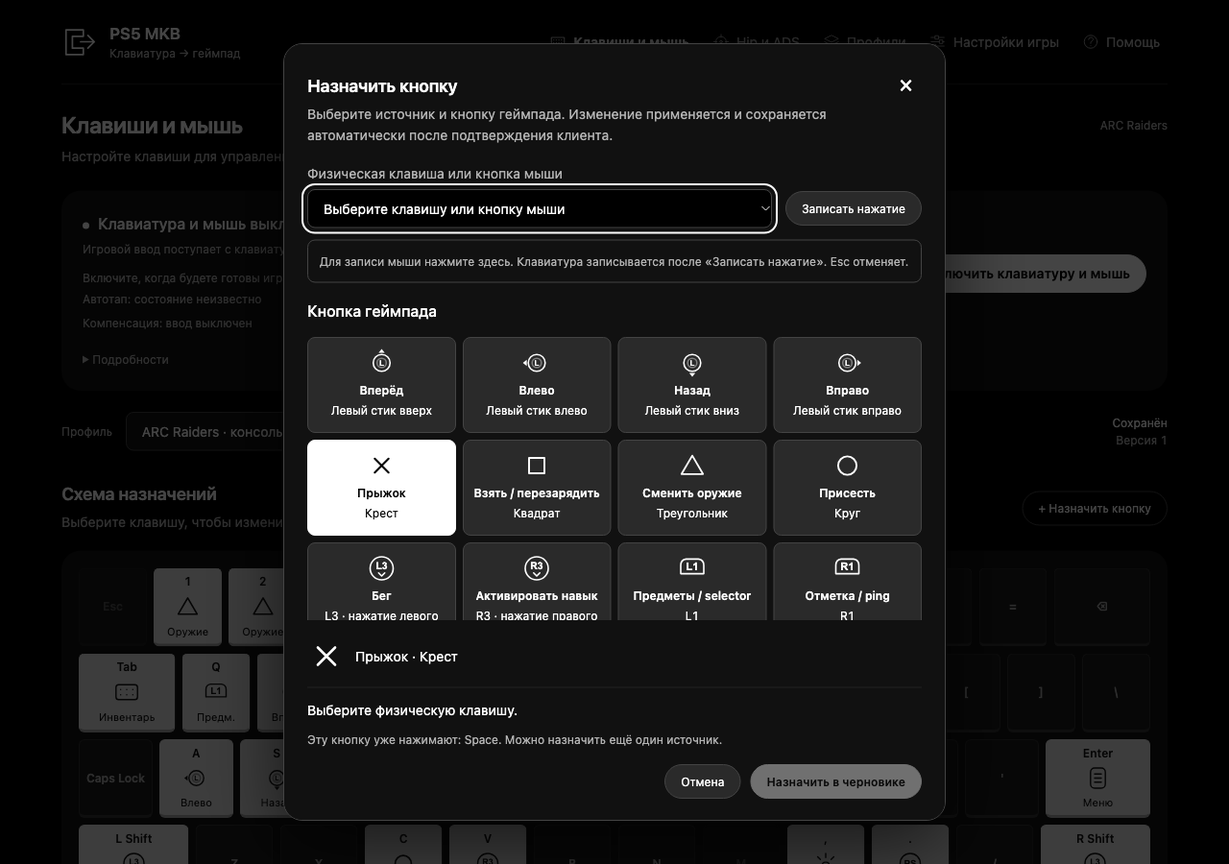
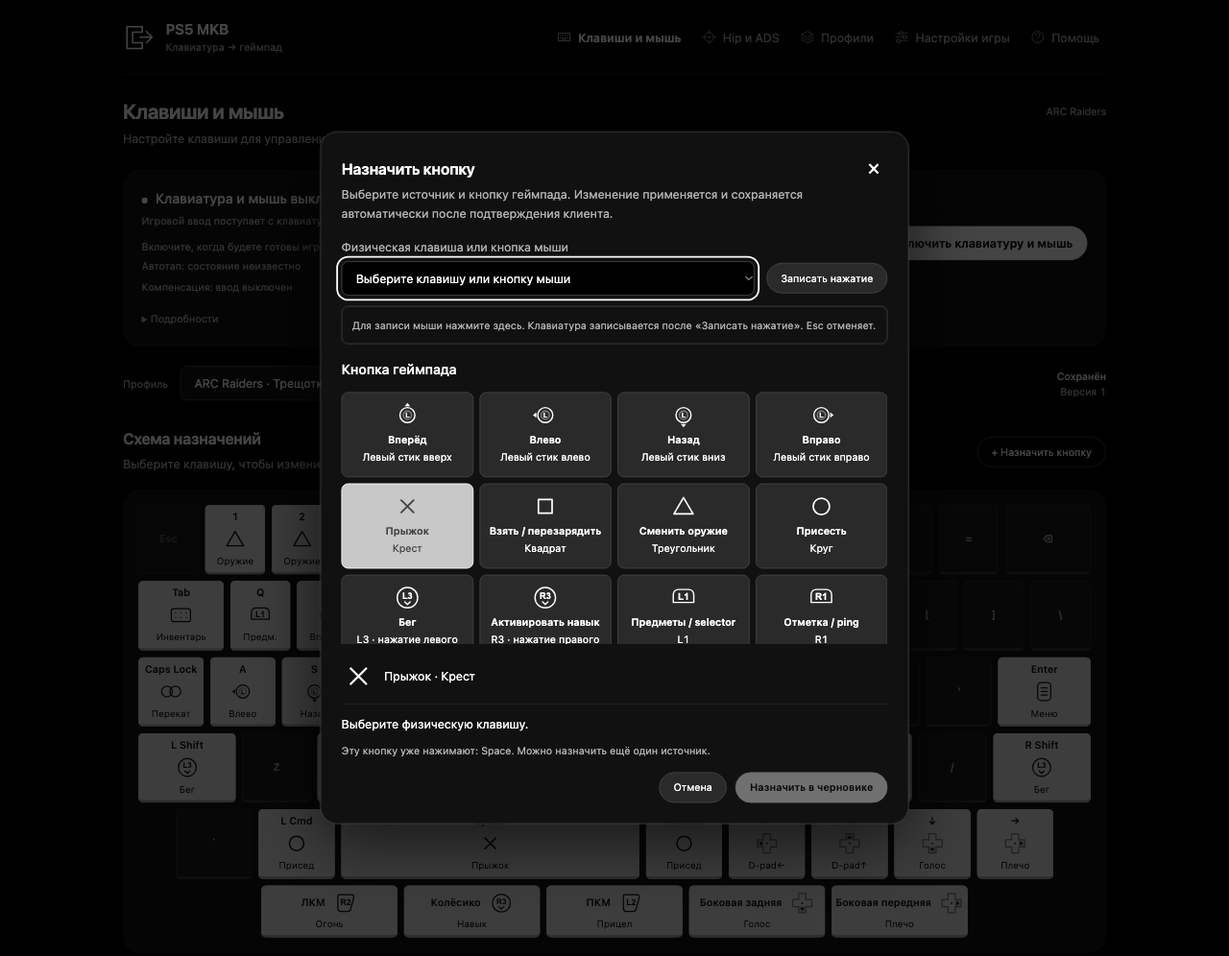
Publish tuned ARC Raiders profile with complete bindings and current screenshots

diff --git a/dashboard/web-isolated/index.html b/dashboard/web-isolated/index.html
@@ -9,7 +9,7 @@
 <section class="connection" aria-label="Управление игрой"><div class="status-top"><div><span id="live-dot" class="dot"></span><strong id="connection-title" role="status">Проверяем подключение…</strong></div></div><p class="input-origin">Игровой ввод поступает с клавиатуры и мыши на Mac. Этот пульт меняет настройки.</p><p id="control-hint" class="muted">Дождитесь подключения к Mac mini.</p><p id="rapid-fire-runtime" class="muted" role="status">Автотап: состояние неизвестно</p><p id="recoil-runtime" class="muted" role="status">Компенсация: состояние неизвестно</p><div class="controls" id="main-controls"><button id="arm" disabled class="primary">Включить клавиатуру и мышь</button><button id="release" disabled hidden>Перейти на геймпад</button><button id="recover" disabled hidden>Восстановить управление</button><button id="launch" disabled hidden>Подключиться к PS5</button></div><p id="control-progress" role="status" hidden></p><details id="connection-details"><summary>Подробности</summary><span id="age">Обновление…</span><div class="status-grid"><div><small>Служба</small><strong id="service-state">…</strong></div><div><small>Клиент / PS5</small><strong id="ps5-state">…</strong></div><div><small>Захват ввода</small><strong id="capture-state">…</strong></div><div><small>Профиль в клиенте</small><strong id="applied-state">…</strong></div></div><p id="feedback-state" class="muted">Локальная отправка: неизвестно</p><p id="status-reason" class="muted"></p><div id="status-details" class="muted"></div><div id="baseline-controls" hidden><p>Старый клиент не сообщает состояние ввода. Включение доступно вручную.</p></div><button id="refresh" class="quiet">Обновить статус</button></details></section>
 <section class="profilebar"><label>Профиль<select id="profile-select" aria-label="Выбранный профиль"></select></label><div class="profile-status"><span id="draft-state">Сохранён</span><small id="revision"></small></div><button hidden id="save" disabled>Сохранить</button><button hidden id="apply" disabled class="primary">Применить на Mini</button></section>
 <section id="tab-bindings" class="tab"><div class="section-head"><div><h2>Схема назначений</h2><p>Выберите клавишу, чтобы изменить её назначение. Несколько клавиш могут нажимать одну кнопку.</p></div><button id="new-binding" disabled class="quiet">+ Назначить кнопку</button></div><details class="keyboard-disclosure" open><summary>Показать схему клавиатуры</summary><div class="keyboard" id="keyboard" aria-label="Клавиатура профиля"></div></details><div class="legend"><span><i class="swatch"></i> Назначено</span><span>Cmd + Esc включает / выключает ввод · Esc только выключает</span></div><div class="callout">Мышь управляет правым стиком. Это консольное управление, включая контекстные нажатия и удержания.</div><div id="action-groups"></div><section class="panel unsupported"><h3>Дополнительные кнопки мыши</h3><p>Нажатие колёсика и две боковые кнопки можно назначить на схеме выше. Прокрутка колёсика пока не поддерживается.</p><button disabled>Прокрутка колёсика</button></section></section>
-<section id="tab-aim" class="tab" hidden><div class="section-head"><div><h2>Движение камеры</h2><p>Настройте обычный обзор и прицеливание отдельно. Начальные значения одинаковы: gain 0.015, сглаживание 0, deadzone 0.</p></div></div><div id="aim-modes" class="aim-grid"></div><section class="panel"><h3>Общие параметры</h3><label>Радиальная компенсация deadzone <input id="deadzone" type="number" min="0" max="0.99" step="0.01"></label><p>Диапазон 0–0.99. Поднимает ненулевой сигнал стика. Baseline 0.</p><label>DPI <input id="dpi" type="number" min="0" max="1000000" step="1"></label><p id="dpi-note">Без измеренной LUT значение не участвует в расчёте. cm/360 также не участвует.</p><p>Y-scale и инверсия не поддерживаются этой сборкой.</p></section><details class="panel"><summary>Метаданные калибровки</summary><p>Запишите реальные условия измерения. Эти записи не изменяют игру и не создают LUT.</p><div id="calibration-fields"></div></details></section>
+<section id="tab-aim" class="tab" hidden><div class="section-head"><div><h2>Движение камеры</h2><p>Настройте обычный обзор и прицеливание отдельно. Профиль ARC Raiders: Hip/ADS gain 0.015, сглаживание 0, радиальная компенсация deadzone 0.12.</p></div></div><div id="aim-modes" class="aim-grid"></div><section class="panel"><h3>Общие параметры</h3><label>Радиальная компенсация deadzone <input id="deadzone" type="number" min="0" max="0.99" step="0.01"></label><p>Диапазон 0–0.99. Поднимает ненулевой сигнал стика. В профиле ARC Raiders: 0.12; в резервном профиле: 0.</p><label>DPI <input id="dpi" type="number" min="0" max="1000000" step="1"></label><p id="dpi-note">Без измеренной LUT значение не участвует в расчёте. cm/360 также не участвует.</p><p>Y-scale и инверсия не поддерживаются этой сборкой.</p></section><details class="panel"><summary>Метаданные калибровки</summary><p>Запишите реальные условия измерения. Эти записи не изменяют игру и не создают LUT.</p><div id="calibration-fields"></div></details></section>
 <section id="tab-profiles" class="tab" hidden><div class="section-head"><div><h2>Сохранить свою конфигурацию</h2><p>При подключённом native-клиенте правки применяются и сохраняются автоматически. Без подключения доступно сохранение без применения.</p></div></div><section class="panel"><label>Название профиля<input id="profile-name" maxlength="120"></label><div class="buttonrow"><button id="duplicate">Создать копию</button><button id="export">Экспорт JSON</button><button id="import">Импорт JSON</button><button id="restore-drafts">Восстановить оба черновика</button><input id="drafts-file" type="file" accept="application/json,.json" hidden><input id="import-file" type="file" accept="application/json,.json" hidden></div></section><section class="panel"><h3>Восстановление</h3><p>Сначала выключаем захват и подтверждаем освобождение. Восстановленный профиль применяется автоматически при доступном native-клиенте; ввод остаётся выключенным.</p><div class="buttonrow"><button id="reset">Вернуть профиль ARC Raiders</button><button id="baseline">Восстановить начальный профиль</button></div></section><section class="panel"><h3>Состояния профиля</h3><p>Черновик существует в этом окне. «Применено» появляется после подтверждения клиента. «Сохранить без применения» только записывает профиль на Mac mini. После неопределённого результата используйте явное восстановление; повторной автоматической отправки не будет.</p><p>При конфликте сохраните профиль и checklist вместе отдельной копией. Обычный экспорт JSON по-прежнему содержит только профиль.</p></section></section>
 <section id="tab-game" class="tab" hidden><div class="section-head"><div><h2>Проверьте настройки на PS5</h2><p>Пульт не считывает и не меняет настройки игры. Заполните checklist по экрану PS5.</p></div></div><div class="callout">Рекомендации относятся к ARC Raiders. Проверьте фактические значения в меню своей игры.</div><section class="panel"><p id="settings-date"></p><div class="settings-head"><strong>Параметр</strong><strong>Baseline</strong><strong>На вашей PS5</strong></div><div id="settings-fields"></div><div class="buttonrow"><button id="settings-save" class="primary">Сохранить checklist</button><label class="check"><input type="checkbox" id="settings-confirm">Я сверил все значения на PS5 сейчас</label></div></section></section>
 <section id="tab-help" class="tab" hidden><div class="section-head"><h2>Перед выходом</h2></div><section class="panel"><h3>Откуда приходит ввод</h3><p>Клавиатура и мышь подключены к Mac mini. Браузер на другом устройстве редактирует настройки. Запись назначения работает только в открытом окне «Назначить», она не отправляет нажатия в игру.</p><h3>Контекстные действия PS5</h3><p>E и R нажимают одну Square: взаимодействие или перезарядка по контексту игры. Клавиши 1 и 2 нажимают Triangle: смена/взять оружие, удержание убирает оружие. Они не выбирают прямые слоты.</p><p>Tab нажимает Touchpad: inventory, удержание открывает map. Кнопка «Круг» отвечает за приседание, двойное нажатие — за перекат. Текущая клавиша указана на схеме. L1 открывает предметы; IJKL задают направление правого стика для selector. Выбор лечения зависит от меню игры. Прямое лечение не подтверждено. R3 активирует навык.</p><p>Пользователь проверил: D-pad Up переключает фонарик, короткое нажатие D-pad Left открывает реплики, D-pad Right меняет плечо камеры. Действие «Удержать →» по одному нажатию удерживает D-pad Right 600 мс и отпускает его. Игровой результат этого удержания отдельно не подтверждён.</p><p>Действие «Перекат» автоматически выдаёт два нажатия приседа по 64 мс с отпусканием на 64 мс между ними. Если ручной присед уже зажат, сначала идёт отпускание на 64 мс. После второго нажатия идёт финальное отпускание на 64 мс, затем восстанавливается актуальное состояние ручного приседа. Удержание клавиши не повторяет последовательность, новые нажатия во время неё не ставятся в очередь. Cmd можно назначить на ручной присед, Caps Lock — только на «Перекат». При захваченном вводе назначенный Cmd + Space позволяет нажать присед и прыжок вместе.</p><p>Автотап огня включается отдельно. Интерфейс не определяет игровой контекст, автоматического лечения нет. Формирование команд проверено программно; распознавание удержания и переката в игре требует физической проверки пользователя.</p></section><section class="panel"><h3>Источники и ограничения</h3><p>Проект создавался для ARC Raiders и вдохновлён XIM. Другие игры требуют своих назначений и настройки камеры. Автор получил бан в ARC Raiders во время использования проекта. Точная причина неизвестна; безопасность аккаунта не гарантируется.</p><p><a href="https://id.embark.games/arc-raiders/support/faq/282-2-0-frozen-trail-update" target="_blank" rel="noreferrer">Embark · 2.0 Frozen Trail</a> · <a href="https://id.embark.games/arc-raiders/support/faq/276-live-update-1-45-0" target="_blank" rel="noreferrer">Embark · 1.45 quick cycle / wheel</a></p><p>Камера F(u) не измерена. Измеренной LUT нет, точное воспроизведение XIM не заявляется. Проверенный baseline сохраняет прежние gain и обработку движения.</p><h3>Доступ</h3><p>Пульт доступен по адресу http://127.0.0.1:8765. Доступ через Tailscale включается отдельно. Для стабильности подключите Mac и PS5 к одному роутеру по Ethernet.</p></section></section>

diff --git a/tests/test_dashboard.py b/tests/test_dashboard.py
@@ -24,7 +24,8 @@ BASE = loads((ROOT / 'profiles/arc-raiders-linear-zero-deadzone.json').read_byte
 class RadialMenuTests(unittest.TestCase):
     def test_schema_roundtrip(self):
         p = copy.deepcopy(PRESET)
-        self.assertNotIn('radial_menu', p)
+        p.pop('radial_menu', None)
+        self.assertEqual(validate(loads(encode(p))), p)
         p['radial_menu'] = dict(enabled=True, gain=.015, open_actions=['L1', 'R1', 'Left'])
         self.assertEqual(validate(loads(encode(p))), p)
         for delay in (0, 350, 1500):
@@ -321,7 +322,9 @@ class Schema(unittest.TestCase):
         validate(PRESET)
         self.assertEqual(PRESET['binds']['14'], PRESET['binds']['15'])
         self.assertEqual(PRESET['hip'], PRESET['ads'])
-        self.assertEqual(set(PRESET['binds'].values()), set(__import__('dashboard.schema', fromlist=['ACTIONS']).ACTIONS) - {'RecoilToggle','RecoilDecrease','RecoilIncrease','RapidFireToggle','HoldLeft','HoldRight','DodgeRoll'})
+        for key, action in {'57':'DodgeRoll','5':'Left','3':'R1','17':'Up','258':'R3','259':'Down','260':'Right'}.items():
+            self.assertEqual(PRESET['binds'][key], action)
+        self.assertEqual(set(PRESET['binds'].values()), set(__import__('dashboard.schema', fromlist=['ACTIONS']).ACTIONS) - {'RapidFireToggle','HoldLeft'})
 
     def test_rapid_fire(self):
         p = copy.deepcopy(PRESET)

diff --git a/dashboard/store.py b/dashboard/store.py
@@ -7,8 +7,8 @@ import uuid
 from .schema import Problem, encode, loads, validate, require, digest, LIMIT
 
 RECOMMENDED = {'response': 'Linear', 'lookBoost': 0, 'ramp': 0, 'lookDeadzone': 0,
-               'moveDeadzone': 15, 'horizontal': 65, 'vertical': 55, 'zoom': 25,
-               'scoped': 50, 'aimAssist': False, 'lookBoostVertical': 0,
+               'moveDeadzone': 15, 'horizontal': 160, 'vertical': 160, 'zoom': 25,
+               'scoped': 50, 'aimAssist': True, 'lookBoostVertical': 0,
                'zoomBoostHorizontal': 0, 'zoomBoostVertical': 0, 'zoomRamp': 0}
 DETAILED_SETTINGS = {'lookBoostVertical', 'zoomBoostHorizontal', 'zoomBoostVertical', 'zoomRamp'}
 

diff --git a/docs/usage.md b/docs/usage.md
@@ -27,6 +27,48 @@
 
 Скриншот использует демонстрационные данные.
 
+## Готовые назначения ARC Raiders
+
+В комплект включён последний сохранённый профиль автора «Трещотка · компенсация».
+
+| Клавиша | Действие |
+| --- | --- |
+| W / A / S / D | Движение |
+| Space | Прыжок |
+| Shift | Бег |
+| E / R | Взаимодействие / перезарядка, Square |
+| 1 / 2 | Смена оружия, Triangle |
+| X / Cmd | Приседание, Circle |
+| Caps Lock | Перекат, последовательность двух нажатий Circle |
+| F | Метка, R1 |
+| G | Реплики, D-pad Left |
+| T | Фонарик, D-pad Up |
+| 3 | Удержание D-pad Right 600 мс |
+| Q | Предметы, L1 |
+| Tab | Инвентарь, Touchpad |
+| I / J / K / L | Направление правого стика в меню выбора |
+| Левая / правая кнопка мыши | Огонь / прицеливание |
+| Нажатие колёсика | Навык, R3 |
+| Боковые кнопки мыши | D-pad Down / D-pad Right |
+| C | Переключение компенсации отдачи |
+| B / V | Увеличить / уменьшить компенсацию |
+
+В этом профиле включена импульсная компенсация «Трещотки»: vertical 0.075, peak 0.11, period 120 мс. Автотап выключен. Эти параметры подобраны автором для своего оружия; проверьте их при смене оружия.
+
+## Настройки ARC Raiders на PS5
+
+| Настройка | Значение автора |
+| --- | --- |
+| Кривая отклика | Linear |
+| Чувствительность H / V | 160 / 160 |
+| Hip Boost H / V и Ramp | 0 |
+| ADS Boost H / V и Ramp | 0 |
+| Мёртвая зона обзора / движения | 0 / 15 |
+| Zoom / Scoped | 25% / 50% |
+| Помощь прицеливания | Включена |
+
+Эти значения нужно выставить вручную в игре. Пульт показывает их для сверки.
+
 ## Сохранение и применение
 
 При подключённом клиенте правки применяются и сохраняются автоматически после его подтверждения. Состояние «Применено» означает подтверждение клиента. Сохранение без подключения лишь записывает профиль на Mac и не меняет игру.
@@ -37,7 +79,7 @@
 
 Hip задаёт движение камеры без прицеливания, ADS — во время прицеливания. Меняйте параметры постепенно и проверяйте их в своей игре. Мышь преобразуется в правый стик: ограничения скорости поворота и обработка стика самой игрой сохраняются.
 
-Начальный профиль использует gain 0.015, сглаживание 0 и deadzone 0. DPI и записи калибровки сами по себе не создают измеренную кривую камеры. Измеренной LUT в комплекте нет; точное воспроизведение поведения XIM не заявляется.
+Профиль автора для ARC Raiders использует Hip/ADS gain 0.015, сглаживание 0, радиальную компенсацию deadzone 0.12 и записанный DPI 800. Радиальное меню включено: gain 0.008, задержка открытия 195 мс. DPI и записи калибровки сами по себе не создают измеренную кривую камеры. Измеренной LUT в комплекте нет; точное воспроизведение поведения XIM не заявляется.
 
 ## Профили
 

diff --git a/README.md b/README.md
@@ -2,7 +2,11 @@
 
 Клавиатура и мышь для PS5 через изменённый клиент [chiaki-ng](https://github.com/streetpea/chiaki-ng). Настройки доступны в браузере: назначения кнопок, чувствительность Hip/ADS и профили.
 
-Я создавал этот проект для **ARC Raiders**, вдохновившись устройством **XIM**. Основная логика работает и использовалась мной в игре. Для других игр можно настроить свои назначения и обработку камеры, но готовая совместимость с каждой игрой не обещается: проект может потребовать доработки.
+Я создавал этот проект для **ARC Raiders**, вдохновившись устройством **XIM**. В комплекте моя последняя конфигурация для этой игры: чувствительность мыши, бинды, настройки радиальных меню и профиль «Трещотка» с компенсацией.
+
+Я подробно подбирал настройки и добился очень плавного управления. На моей проводной конфигурации движение мыши ощущалось один в один, без заметной задержки. Это мой опыт в игре, а не инструментальное измерение задержки. Настройки игры и подключения, с которыми я играл, описаны в документации.
+
+Для другой игры можно адаптировать назначения и обработку камеры, но готовый профиль в этом репозитории предназначен для ARC Raiders.
 
 > **Риск блокировки.** Во время использования проекта я получил бан в ARC Raiders. Точная причина блокировки неизвестна. Использование проекта может привести к санкциям в игре; гарантии безопасности аккаунта нет.
 
@@ -37,7 +41,7 @@
 | --- | --- |
 | `dashboard/` | Сервер пульта и веб-интерфейс |
 | `patches/` | Изменения клиента chiaki-ng |
-| `profiles/` | Начальные профили ARC Raiders |
+| `profiles/` | Последний профиль автора для ARC Raiders и резервный профиль |
 | `scripts/` | Сборка, настройка, запуск и проверки |
 | `tools/` | Локальный перенос настроек официального клиента |
 | `tests/` | Автоматические проверки кода и интерфейса |
